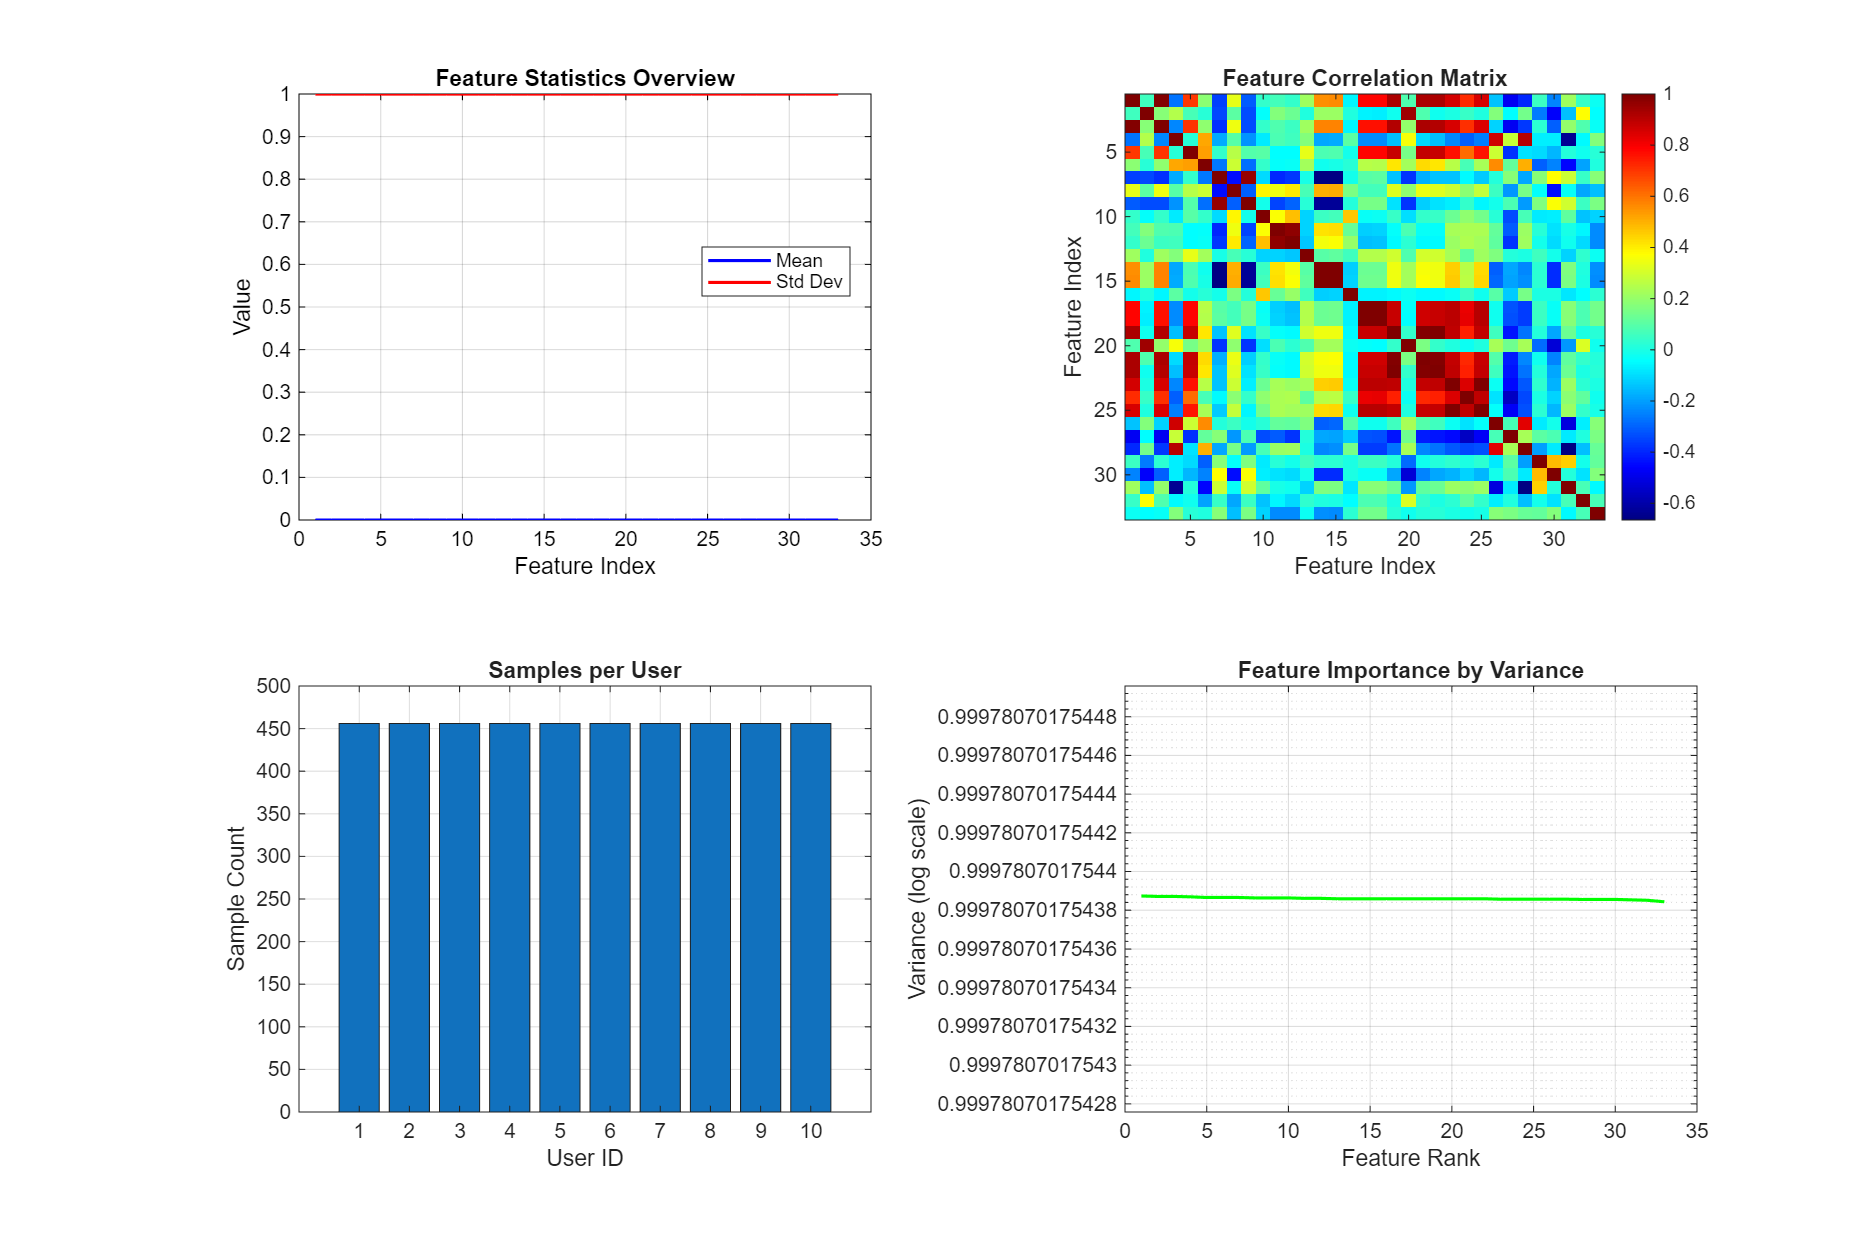
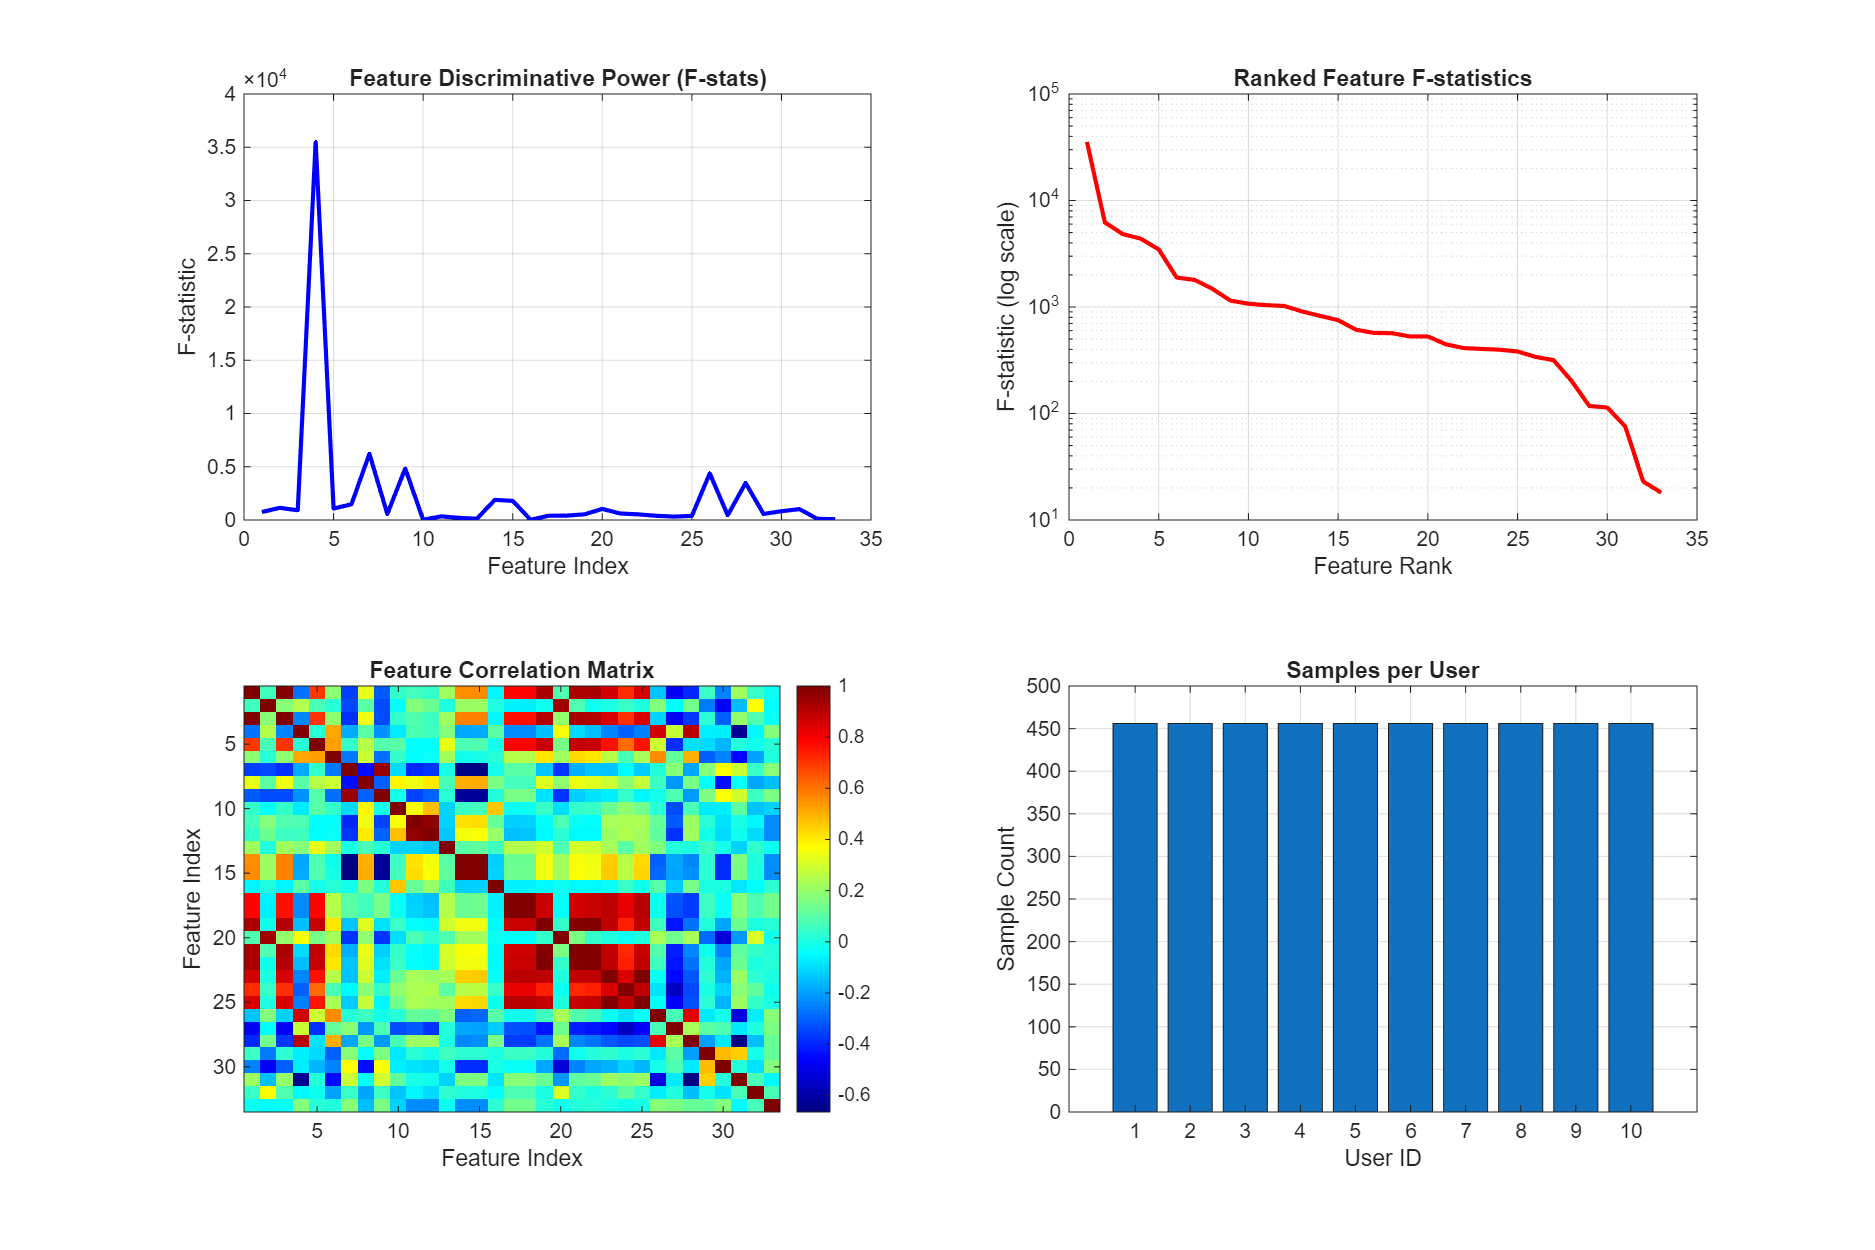
Enhanced feature analysis with F-statistics integration
- Fixed syntax error in PCA function call (line 142)
- Integrated F-statistics plots into main feature summary dashboard
- Replaced basic statistical plots with discriminative power analysis
- Added separate detailed F-statistics view
- Updated feature summary to 2x2 layout focusing on authentication metrics
- Generated enhanced feature analysis visualizations

diff --git a/src/analyze_sensor_features.m b/src/analyze_sensor_features.m
@@ -6,27 +6,64 @@ try
     fprintf('  - Feature matrix: %d samples x %d features\n', size(XF,1), size(XF,2));
     fprintf('  - Users: %d unique\n', length(unique(yUser)));
     
-    %% 1) Feature summary statistics plot
+    %% Calculate F-statistics first (needed for summary)
+    f_stats = zeros(1,size(XF,2));
+    users = unique(yUser);
+    k = length(users);
+    [~,~,user_idx] = unique(yUser);
+
+    for j = 1:size(XF,2)
+        feature = XF(:, j);
+        overall_mean = mean(feature);
+
+        group_means = zeros(k,1);
+        group_sizes = zeros(k,1);
+
+        for u = 1:k
+            group_vals = feature(user_idx == users(u));
+            group_means(u) = mean(group_vals);
+            group_sizes(u) = length(group_vals);
+        end
+
+        SS_between = sum(group_sizes .* (group_means - overall_mean).^2);
+
+        SS_within = 0;
+        for u = 1:k
+            group_vals = feature(user_idx == users(u));
+            SS_within = SS_within + sum((group_vals - group_means(u)).^2);
+        end
+
+        df_between = k - 1;
+        df_within  = length(feature) - k;
+
+        f_stats(j) = (SS_between/df_between) / (SS_within/df_within);
+    end
+
+    %% 1) Feature Discriminative Analysis Summary
     figure('Position',[100,100,1200,800], 'Color', 'w');
-    subplot(2,2,1);
-    mu = mean(XF,1); sigma = std(XF,1);
-    plot(1:length(mu), mu, 'b-', 'LineWidth',1.5); hold on;
-    plot(1:length(sigma), sigma, 'r-', 'LineWidth',1.5);
-    xlabel('Feature Index', 'Color', 'k'); ylabel('Value', 'Color', 'k');
-    title('Feature Statistics Overview', 'Color', 'k');
-    legend('Mean','Std Dev','Location','best', 'TextColor', 'k');
-    grid on;
-    set(gca, 'Color', 'w', 'XColor', 'k', 'YColor', 'k');
     
-    %% 2) Feature correlation heatmap
+    %% Main F-statistics plots (replacing old statistical plots)
+    subplot(2,2,1);
+    plot(1:length(f_stats), f_stats, 'b-', 'LineWidth',2);
+    xlabel('Feature Index'); ylabel('F-statistic');
+    title('Feature Discriminative Power (F-stats)');
+    grid on;
+    
     subplot(2,2,2);
-    if size(XF,2) <= 50  % Only for reasonable number of features
+    [sorted_f, sort_idx_f] = sort(f_stats, 'descend');
+    semilogy(1:length(sorted_f), sorted_f, 'r-', 'LineWidth',2);
+    xlabel('Feature Rank'); ylabel('F-statistic (log scale)');
+    title('Ranked Feature F-statistics');
+    grid on;
+    
+    %% 3) Feature correlation heatmap
+    subplot(2,2,3);
+    if size(XF,2) <= 50
         C = corrcoef(XF);
         imagesc(C); colorbar; colormap('jet');
         title('Feature Correlation Matrix');
         xlabel('Feature Index'); ylabel('Feature Index');
     else
-        % For many features, show sample correlation
         idx_sample = 1:min(30,size(XF,2));
         C = corrcoef(XF(:,idx_sample));
         imagesc(C); colorbar; colormap('jet');
@@ -34,28 +71,18 @@ try
         xlabel('Feature Index'); ylabel('Feature Index');
     end
     
-    %% 3) Class distribution visualization
-    subplot(2,2,3);
-    [users,~,user_idx] = unique(yUser);
+    %% 4) Class distribution visualization
+    subplot(2,2,4);
     hist_data = histcounts(user_idx, 1:length(users)+1);
     bar(hist_data);
     xlabel('User ID'); ylabel('Sample Count');
     title('Samples per User');
     grid on;
     
-    %% 4) Feature variance ranking
-    subplot(2,2,4);
-    feature_var = var(XF,1);
-    [sorted_var, sort_idx] = sort(feature_var, 'descend');
-    semilogy(1:length(sorted_var), sorted_var, 'g-', 'LineWidth',1.5);
-    xlabel('Feature Rank'); ylabel('Variance (log scale)');
-    title('Feature Importance by Variance');
-    grid on;
-    
     save_fig(gcf, fullfile(RUN.figDir, 'feature_summary_stats.png'));
     close(gcf);
     
-    %% 5) Feature correlation heatmap (separate detailed plot)
+    %% 5) Feature correlation heatmap full
     if size(XF,2) <= 100
         figure('Position',[200,200,800,600]);
         C = corrcoef(XF);
@@ -66,7 +93,7 @@ try
         close(gcf);
     end
     
-    %% 6) Class distribution detailed plot
+    %% 6) Detailed user distributions + boxplots
     figure('Position',[300,300,1000,600]);
     subplot(1,2,1);
     bar(hist_data);
@@ -75,58 +102,49 @@ try
     grid on;
     
     subplot(1,2,2);
-    % Box plot of first few features by class
     if size(XF,2) >= 3
         feat_idx = 1:min(3,size(XF,2));
         for i = 1:length(feat_idx)
             subplot(1,length(feat_idx)+1,i+1);
             boxplot(XF(:,feat_idx(i)), user_idx);
             xlabel('User ID'); ylabel(sprintf('Feature %d',feat_idx(i)));
-            title(sprintf('Feature %d Distribution',feat_idx(i)));
+            title(sprintf('Feature %d Distribution', feat_idx(i)));
         end
     end
     save_fig(gcf, fullfile(RUN.figDir, 'feature_class_distribution.png'));
     close(gcf);
     
-    %% 7) Feature F-statistics (ANOVA-like)
+    %% 7) Additional F-statistics analysis (separate detailed view)
+    % F-stats already calculated above and included in main summary
+    % This creates a separate detailed F-statistics figure
     figure('Position',[400,400,1000,500]);
-    f_stats = zeros(1,size(XF,2));
-    for j = 1:size(XF,2)
-        try
-            [~,~,stats] = anova1(XF(:,j), user_idx, 'off');
-            f_stats(j) = stats.F;
-        catch
-            f_stats(j) = 0;
-        end
-    end
-    
+
     subplot(1,2,1);
     plot(1:length(f_stats), f_stats, 'b-', 'LineWidth',1.5);
     xlabel('Feature Index'); ylabel('F-statistic');
     title('Feature Discriminative Power (F-stats)');
     grid on;
-    
+
     subplot(1,2,2);
     [sorted_f, sort_idx_f] = sort(f_stats, 'descend');
     semilogy(1:length(sorted_f), sorted_f, 'r-', 'LineWidth',1.5);
     xlabel('Feature Rank'); ylabel('F-statistic (log scale)');
     title('Ranked Feature F-statistics');
     grid on;
-    
-    save_fig(gcf, fullfile(RUN.figDir, 'feature_fstats.png'));
+
+    save_fig(gcf, fullfile(RUN.figDir, 'feature_fstats_detailed.png'));
     close(gcf);
-    
-    %% 8) PCA preview (before main PCA)
+
+    %% 8) PCA preview
     if size(XF,1) > size(XF,2) && size(XF,2) > 2
         figure('Position',[500,500,800,600]);
         [coeff_preview,score_preview,~,~,explained_preview] = pca(XF);
         
         subplot(2,2,1);
         plot(1:min(20,length(explained_preview)), explained_preview(1:min(20,end)), 'bo-');
-        xlabel('PC Number', 'Color', 'black'); ylabel('Variance Explained (%)', 'Color', 'black');
-        title('PCA Scree Plot Preview', 'Color', 'black');
+        xlabel('PC Number'); ylabel('Variance Explained (%)');
+        title('PCA Scree Plot Preview');
         grid on;
-        set(gca, 'XColor', 'black', 'YColor', 'black');
         
         subplot(2,2,2);
         plot(cumsum(explained_preview(1:min(20,end))), 'ro-');
@@ -146,7 +164,7 @@ try
         close(gcf);
     end
     
-    %% 9) Save detailed statistics table
+    %% 9) Save detailed feature table
     feature_stats = table();
     feature_stats.feature_idx = (1:size(XF,2))';
     feature_stats.mean_val = mean(XF, 1)';
@@ -155,11 +173,11 @@ try
     feature_stats.min_val = min(XF, [], 1)';
     feature_stats.max_val = max(XF, [], 1)';
     feature_stats.f_stat = f_stats';
-    
+
     writetable(feature_stats, fullfile(RUN.tabDir, 'feature_analysis_detailed.csv'));
     fprintf('  - Generated %d feature analysis plots\n', 5);
     fprintf('  - Saved detailed feature statistics\n');
-    
+
 catch ME
     warning('analyze_features:AnalysisFailed', 'Feature analysis failed: %s', ME.message);
 end
